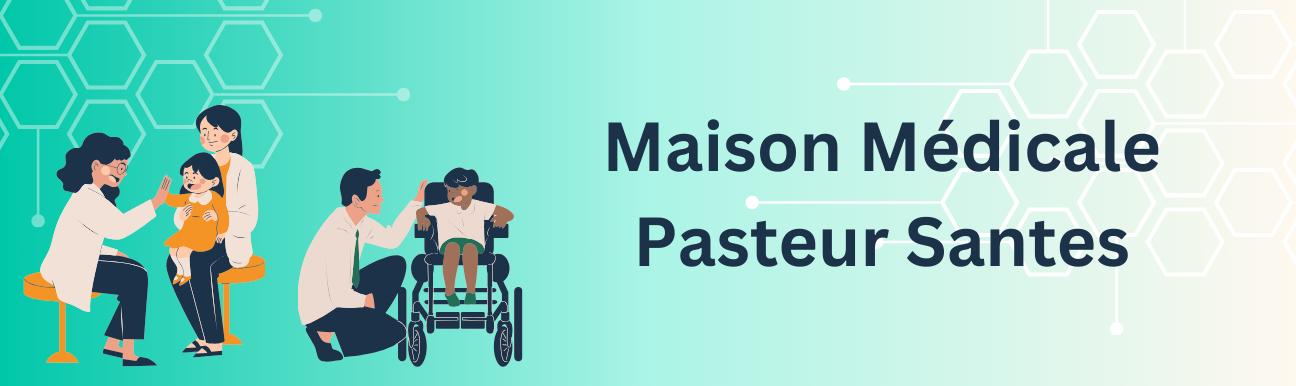
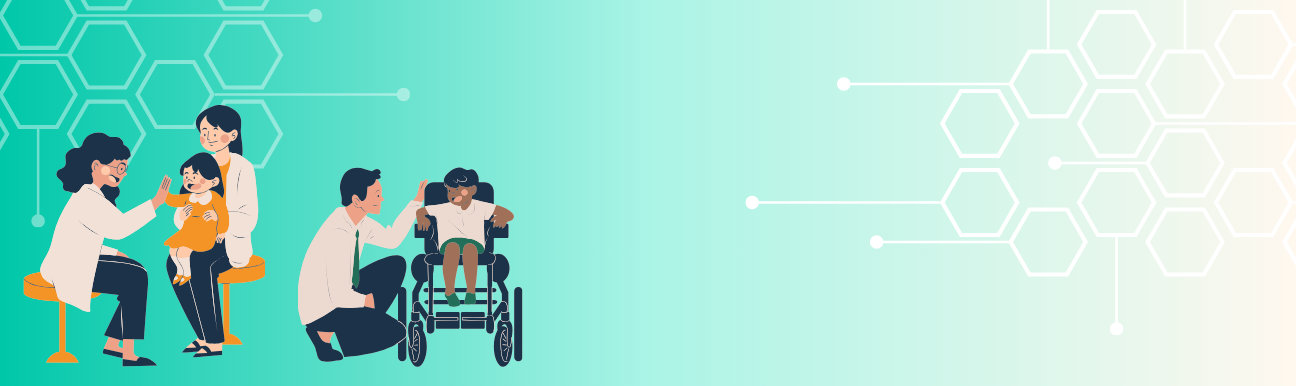
alignement h2 sectionPresentation

Changed region(s): [[0.463, 0.3109, 0.8951, 0.4663], [0.4938, 0.5596, 0.8951, 0.715]]

diff --git a/assets/styles/front/home.scss b/assets/styles/front/home.scss
@@ -21,9 +21,9 @@ span {
 
 //* Fonts & Texte
 h1,
-h2,
 h3,
-h4 {
+h4,
+h5 {
     font-size: 2.5rem;
 }
 .containerNews, .skipShow, .nav-menu {
@@ -33,9 +33,9 @@ h4 {
     font-size: 2rem;
 }
 
-h2,
-h4 {
-    width: 100vw;
+h3,
+h5 {
+    width: 96vw;
     display: flex;
 }
 #topSectionTel,#topSectionAdresse, #main p, .titreArticle, footer a, footer p {
@@ -59,7 +59,7 @@ i{
 #sectionAcces, #sectionPraticien, footer {
     @include flexWrap;
 }
-h2, h4, #sectionAccesText, #sectionPraticien, .containerPraticien, #footerTel, #footerAdresse, #mentionsLeg {
+h3, h5, #sectionAccesText, #sectionPraticien, .containerPraticien, #footerTel, #footerAdresse, #mentionsLeg {
     @include flexCenter;
 }
 #main, #sectionNews, #sectionFaq, #sectionAcces, #sectionPraticien {
@@ -68,7 +68,7 @@ h2, h4, #sectionAccesText, #sectionPraticien, .containerPraticien, #footerTel, #
 #topSection, #topSectionTel, #topSectionAdresse, .navbarFront, .nav-menu, .nav-item, #sectionNews, .containerNews,
 .containerNewsInfos, #sectionFaq, .faqQuestion, .faqReponse, .containerPraticien, .containerPraticienText,
 footer, #footerTel, #footerAdresse, #mentionsLeg, .nav-item {
-    align-items: center;    
+    align-items: center;
 }
 #topSection, #topSectionTel, #topSectionAdresse, .faqQuestion, .faqReponse, #faqExpandDiv, #sectionAcces, .nav-menu {
     @include disflex;
@@ -79,12 +79,16 @@ footer, #footerTel, #footerAdresse, #mentionsLeg, .nav-item {
 .containerNews, #sectionAcces, #faqExpandDiv {
     width: 80dvw;
 }
+#topSection, #sectionPresentation, #sectionNews, #sectionFaq, #sectionAcces, #sectionPraticien {
+    max-width: 96dvw;
+}
 //*::::::::::::::::::::::::::::::::::::::::::::::::::::::::::::::::::::::::::::::::::::::::::::: 
 
-//section Top
+// Fonction skip to main content
 .skipHidden, .skipShow {
     position: absolute;
 }
+
 .skipHidden {
     border: 0;
     height: 1px;
@@ -104,15 +108,21 @@ footer, #footerTel, #footerAdresse, #mentionsLeg, .nav-item {
     height: fit-content;
 }
 
+//section Top
 #topSection {
     gap: 3%;
     height: 110px;
     max-width: 100dvw;
     background: linear-gradient(90deg, rgba(6, 226, 153, 0.4) 0%, rgba(6, 226, 153, 0.2) 50%, $background 100%);
-    padding: 10px 0;    
+    padding: 10px 0;
+    justify-content: space-around;
 
     #topSectionBtn {
         margin-left: 2.5dvw;
+    }
+    h1 {
+        width: 340px;
+        text-align: justify;
     }
 }
 #topSectionTel, #topSectionAdresse {
@@ -127,7 +137,6 @@ footer, #footerTel, #footerAdresse, #mentionsLeg, .nav-item {
     position: sticky;
     top: 0;
     height: 80px;
-    justify-content: space-between;
     padding: 0 24px 6px 24px;
     box-shadow: 0px 4px 5px rgba(0, 0, 0, 0.6);
 }
@@ -200,6 +209,20 @@ footer, #footerTel, #footerAdresse, #mentionsLeg, .nav-item {
     background-repeat: no-repeat;
     object-fit: contain;
     height: 385px;
+    color: $bleu;
+    text-shadow: 0 2px rgba(0, 0, 0, 0.6);
+    @include disflex;
+    justify-content: flex-end;
+    width: 100dvw;
+    align-items: center;
+
+    h2 {
+        margin: 0 40px;
+        padding: 130px 0; 
+        font-size: 3.5rem;
+        width: 470px;
+        line-height: 1.2em;
+    }
 }
 
 //section News
@@ -306,7 +329,7 @@ footer, #footerTel, #footerAdresse, #mentionsLeg, .nav-item {
 #sectionPraticien {
     align-items: flex-start;
     margin: -100px 0 100px 0;
-    h4 {
+    h5 {
         margin-bottom: 80px;
     }
 }
@@ -371,11 +394,76 @@ footer {
 // RESPONSIVE
 @media (max-width: 1023px) {
 
-    #topSectionTel,
-    #topSectionAdresse {
-        display: none;
+    #topSection {
+        h1 {
+            width: 320px;
+            font-size: 2rem;
+        }
+        
+        #topSectionTel, #topSectionAdresse {
+            font-size: 1rem;
+        }
+
+        #topSectionBtn {
+            display: none;
+        }
+    }
+
+    .navbarFront {
+        overflow-x: scroll;
+        a, li {
+            @include disflex;
+            flex-direction: row;
+            flex-wrap: nowrap;
+        }
+        a, ul, li {
+            height: 80px;
+
+        }
+        .nav-menu li {
+            font-size: 1.7rem;
+        }
+                
+    }
+
+    #sectionPresentation {
+        h2 {
+            font-size: 2.5rem;
+        }
     }
 }
+// h1,
+// h2,
+// h3,
+// h4 {
+//     font-size: 2.5rem;
+// }
+
+// .containerNews,
+// .skipShow,
+// .nav-menu {
+//     text-align: center;
+// }
+
+// .nav-menu li,
+// .skipShow {
+//     font-size: 2rem;
+// }
+
+// h2,
+// h4 {
+//     width: 96vw;
+//     display: flex;
+// }
+
+// #topSectionTel,
+// #topSectionAdresse,
+// #main p,
+// .titreArticle,
+// footer a,
+// footer p {
+//     font-size: 1.5rem;
+// }
 @media (max-width: 435px) {
 
     #footerTel,
@@ -397,6 +485,26 @@ footer {
 
 }
 @media (max-width:768px) {
+
+    #topSection {
+        gap: 1%;
+
+        h1 {
+            width: 270px;
+            font-size: 2rem;
+        }
+
+        #topSectionBtn {
+            display: none;
+        }
+
+        #topSectionTel, #topSectionAdresse {
+            font-size: 1rem;
+            @include disflex;
+            flex-direction: column;
+        }
+    }
+
     .hamburger {
         display: block;
     }
@@ -412,6 +520,7 @@ footer {
     .hamburger.active .bar:nth-child(3) {
         transform: translateY(-8px) rotate(-45deg);
     }
+
     .nav-menu {
         position: fixed;
         left: -100%;
@@ -420,19 +529,20 @@ footer {
         flex-direction: column;
         width: 100%;
         transition: 0.3s;
-        height: calc(100% - 80px)
+        height: calc(100% - 80px);
+        .nav-item {
+            align-items: center;
+            margin: 0;
+            flex-grow: 1;
+            display: flex;
+            justify-content: center;
+            border-bottom: 1px solid #2f2f2f;
+            border-top: 1px solid #2f2f2f;
+            width: 90%;
+            padding: 0;
+        }
     }
 
-    .nav-item {
-        align-items: center;
-        margin: 0;
-        flex-grow: 1;
-        display: flex;
-        justify-content: center;
-        border-bottom: 1px solid #2f2f2f;
-        border-top: 1px solid #2f2f2f;
-        width: 90%;
-    }
 
     .navbarFront.active, .nav-menu.active {
         background-color: rgba(25, 156, 113, 0.8);
